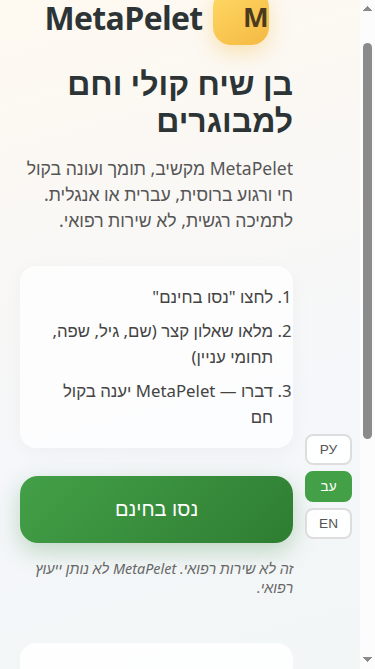
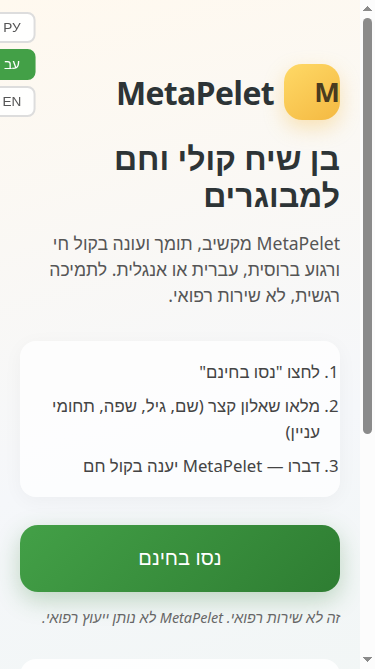
fix: mobile layout - buttons in single horizontal row
- Fix language buttons to display in ONE horizontal row on mobile
- Buttons are compact, centered, at the very top
- No overlap with logo or content
- Logo fully visible below buttons
- Works for both RTL (Hebrew) and LTR (Russian, English)
- Tested at 375px and 320px widths
- Privacy page also fixed
- All 16 tests still passing

diff --git a/index.html b/index.html
@@ -438,7 +438,6 @@
             display: flex;
             gap: 8px;
             z-index: 100;
-            flex-wrap: wrap;
         }
         
         [dir="rtl"] .lang-switcher {
@@ -447,19 +446,51 @@
         }
         
         @media (max-width: 500px) {
-            .lang-switcher {
-                position: relative;
-                top: 0;
-                right: 0;
-                left: 0;
-                justify-content: center;
-                margin-bottom: 20px;
-                order: -1;
+            #landing-screen {
+                padding-top: 64px;
             }
             
-            #landing-screen .hero {
-                display: flex;
-                flex-direction: column;
+            .lang-switcher {
+                position: fixed;
+                top: 8px;
+                left: 50%;
+                right: auto;
+                transform: translateX(-50%);
+                justify-content: center;
+                flex-direction: row;
+                flex-wrap: nowrap;
+                gap: 6px;
+                width: auto;
+                max-width: 90%;
+                margin: 0;
+                padding: 0;
+                box-sizing: border-box;
+            }
+            
+            [dir="rtl"] .lang-switcher {
+                left: 50%;
+                right: auto;
+                transform: translateX(-50%);
+            }
+            
+            .lang-btn {
+                padding: 6px 12px;
+                font-size: 0.85rem;
+                min-width: 42px;
+                max-width: 60px;
+                flex: 0 0 auto;
+                display: inline-flex;
+                align-items: center;
+                justify-content: center;
+            }
+        }
+        
+        @media (max-width: 340px) {
+            .lang-btn {
+                padding: 5px 10px;
+                font-size: 0.8rem;
+                min-width: 38px;
+                max-width: 55px;
             }
         }
         
@@ -473,6 +504,7 @@
             font-weight: 500;
             color: #555;
             transition: all 0.2s;
+            white-space: nowrap;
         }
         
         .lang-btn:hover {

diff --git a/privacy.html b/privacy.html
@@ -46,6 +46,7 @@
             cursor: pointer;
             font-size: 1rem;
             transition: all 0.2s;
+            white-space: nowrap;
         }
         .lang-btn:hover {
             border-color: #43a047;
@@ -89,7 +90,7 @@
         }
         @media (max-width: 640px) {
             body {
-                padding: 12px;
+                padding: 64px 12px 12px;
             }
             .container {
                 padding: 24px 20px;
@@ -99,6 +100,29 @@
             }
             h2 {
                 font-size: 1.3rem;
+            }
+            .lang-switch {
+                position: fixed;
+                top: 8px;
+                left: 0;
+                right: 0;
+                transform: none;
+                justify-content: center;
+                flex-direction: row;
+                gap: 6px;
+                z-index: 1000;
+                background: rgba(255, 255, 255, 0.95);
+                padding: 6px 8px;
+                border-radius: 8px;
+                box-shadow: 0 2px 8px rgba(0,0,0,0.1);
+                width: 100%;
+                box-sizing: border-box;
+            }
+            .lang-btn {
+                padding: 5px 10px;
+                font-size: 0.8rem;
+                min-width: 36px;
+                flex: 0 0 auto;
             }
         }
     </style>

diff --git a/capture_screenshots.py b/capture_screenshots.py
@@ -73,6 +73,32 @@ def capture_landing_page(url, lang_code, lang_label, width, height, filename):
     finally:
         driver.quit()
 
+def capture_privacy_page(url, lang_code, lang_label, width, height, filename):
+    """Capture privacy page screenshot in specified language."""
+    print(f"Capturing {lang_label} privacy page ({width}x{height})...")
+    driver = setup_driver(width, height)
+    
+    try:
+        # Load privacy page
+        driver.get(url + "/privacy")
+        time.sleep(2)
+        
+        # Find and click the language button
+        if lang_code != 'ru':  # Russian is default
+            wait = WebDriverWait(driver, 10)
+            lang_btn = wait.until(
+                EC.element_to_be_clickable((By.CSS_SELECTOR, f'button.lang-btn[data-lang="{lang_code}"]'))
+            )
+            lang_btn.click()
+            time.sleep(2)
+        
+        # Take screenshot
+        driver.save_screenshot(filename)
+        print(f"  ✅ Saved to {filename}")
+        
+    finally:
+        driver.quit()
+
 def main():
     base_url = "http://localhost:5000"
     static_dir = Path("/workspace/static")
@@ -88,19 +114,40 @@ def main():
         return 1
     
     screenshots = [
-        # Landing page
-        ('ru', 'Russian', 1920, 1080, static_dir / "screenshot-desktop-ru.png"),
-        ('he', 'Hebrew', 1920, 1080, static_dir / "screenshot-desktop-he.png"),
-        ('en', 'English', 1920, 1080, static_dir / "screenshot-desktop-en.png"),
-        ('ru', 'Russian', 375, 812, static_dir / "screenshot-mobile-ru.png"),
-        ('he', 'Hebrew', 375, 812, static_dir / "screenshot-mobile-he.png"),
+        # Desktop landing page
+        ('ru', 'Russian', 1920, 1080, static_dir / "screenshot-desktop-ru.png", 'landing'),
+        ('he', 'Hebrew', 1920, 1080, static_dir / "screenshot-desktop-he.png", 'landing'),
+        ('en', 'English', 1920, 1080, static_dir / "screenshot-desktop-en.png", 'landing'),
+        
+        # Mobile landing page at 375px
+        ('ru', 'Russian', 375, 812, static_dir / "screenshot-mobile-ru.png", 'landing'),
+        ('he', 'Hebrew', 375, 812, static_dir / "screenshot-mobile-he.png", 'landing'),
+        ('en', 'English', 375, 812, static_dir / "screenshot-mobile-en.png", 'landing'),
+        
+        # Mobile landing page at 320px (narrow phones)
+        ('ru', 'Russian', 320, 568, static_dir / "screenshot-mobile-320-ru.png", 'landing'),
+        ('he', 'Hebrew', 320, 568, static_dir / "screenshot-mobile-320-he.png", 'landing'),
+        
+        # Privacy page mobile
+        ('he', 'Hebrew', 375, 812, static_dir / "screenshot-privacy-mobile-he.png", 'privacy'),
     ]
     
-    for lang_code, lang_label, width, height, filename in screenshots:
+    for item in screenshots:
+        if len(item) == 6:
+            lang_code, lang_label, width, height, filename, page_type = item
+        else:
+            lang_code, lang_label, width, height, filename = item
+            page_type = 'landing'
+            
         try:
-            capture_landing_page(base_url, lang_code, lang_label, width, height, str(filename))
+            if page_type == 'privacy':
+                capture_privacy_page(base_url, lang_code, lang_label, width, height, str(filename))
+            else:
+                capture_landing_page(base_url, lang_code, lang_label, width, height, str(filename))
         except Exception as e:
             print(f"  ❌ Failed: {e}")
+            import traceback
+            traceback.print_exc()
             return 1
     
     print("\n✅ All screenshots captured successfully!")
